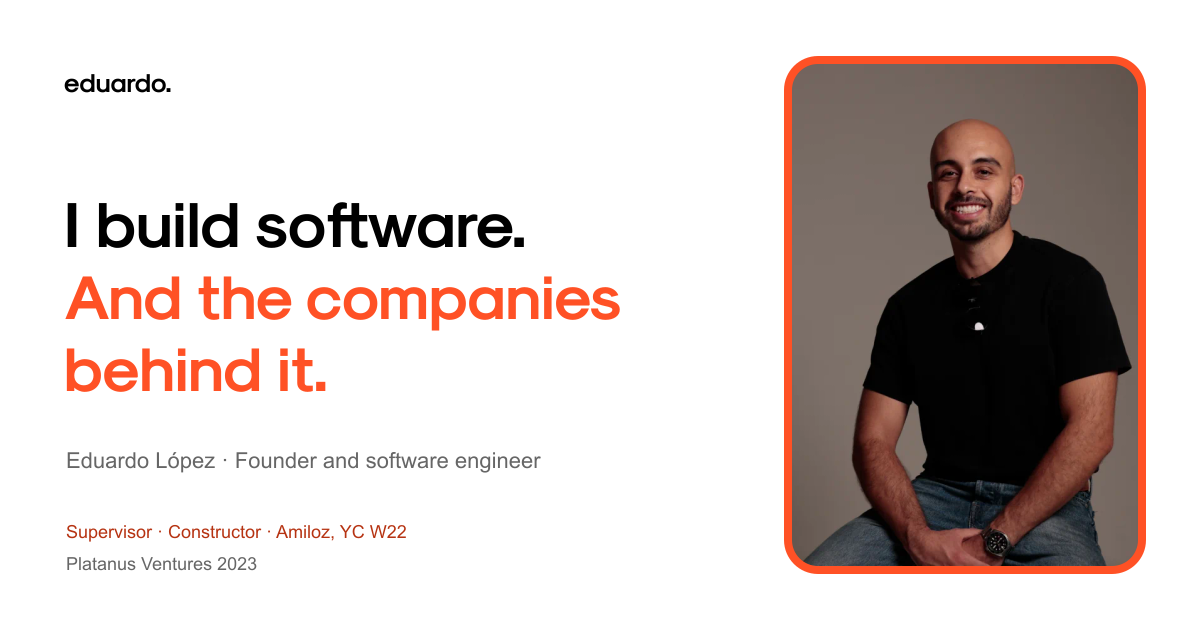
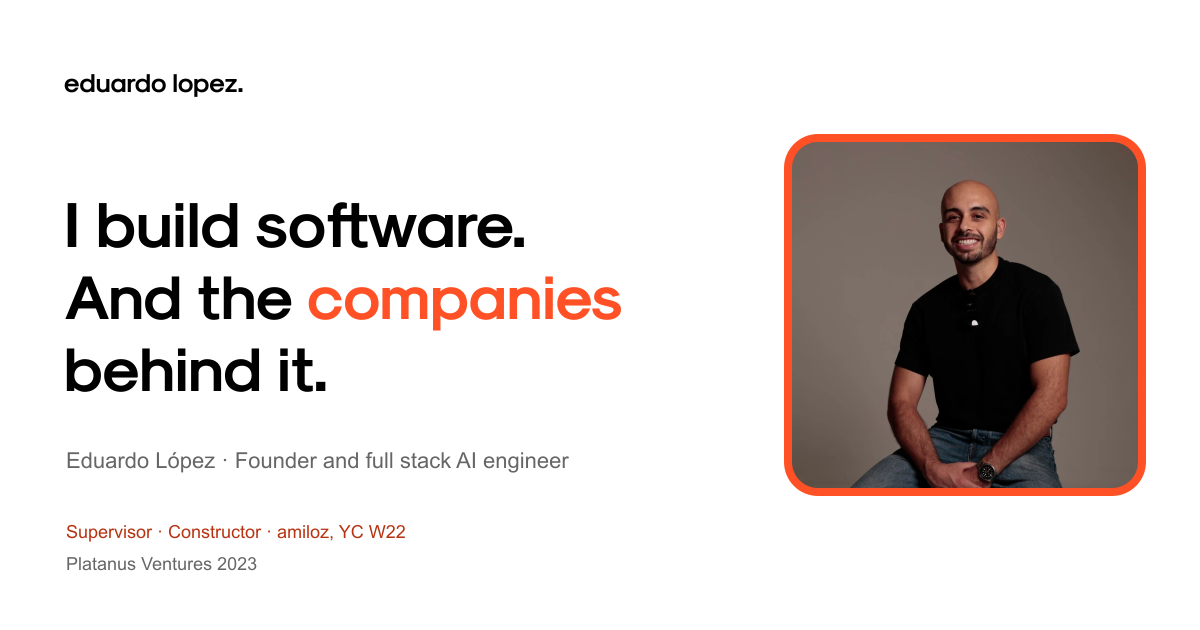
fix(profile): display the original portrait without cropping

diff --git a/scripts/generate-brand.ts b/scripts/generate-brand.ts
@@ -30,7 +30,12 @@ header.writeUInt32LE(22, 18);
 await writeFile("public/favicon.ico", Buffer.concat([header, png]));
 await sharp(Buffer.from(icon)).resize(180, 180).png().toFile("public/apple-touch-icon.png");
 
-const canvas = `<svg xmlns="http://www.w3.org/2000/svg" width="1200" height="630"><rect width="1200" height="630" fill="#ffffff"/>${lettering("eduardo.", 64, 92, 26, "#000000")}${lettering("I build software.", 64, 247, 64, "#000000")}${lettering("And the companies", 64, 319, 62, "#ff5125")}${lettering("behind it.", 64, 391, 62, "#ff5125")}<g font-family="Arial,sans-serif"><text x="66" y="468" font-size="22" fill="#666666">Eduardo López · Founder and software engineer</text><text x="66" y="538" font-size="18" fill="#b63312">Supervisor · Constructor · Amiloz, YC W22</text><text x="66" y="570" font-size="18" fill="#666666">Platanus Ventures 2023</text></g><rect x="784" y="56" width="362" height="518" rx="34" fill="#ff5125"/></svg>`;
-const mask = Buffer.from(`<svg width="346" height="502"><rect width="346" height="502" rx="26" fill="white"/></svg>`);
-const portrait = await sharp("public/images/eduardo-linkedin.webp").resize(346, 502, { fit: "cover" }).composite([{ input: mask, blend: "dest-in" }]).png().toBuffer();
-await sharp(Buffer.from(canvas)).composite([{ input: portrait, left: 792, top: 64 }]).png().toFile("public/og.png");
+const resizedPortrait = await sharp("public/images/eduardo-linkedin.webp").resize(346, 502, { fit: "inside" }).png().toBuffer({ resolveWithObject: true });
+const { width, height } = resizedPortrait.info;
+const left = 792 + Math.round((346 - width) / 2);
+const top = 64 + Math.round((502 - height) / 2);
+const companiesLeft = 64 + font.layout("And the ").positions.reduce((total, position) => total + position.xAdvance, 0) * 62 / font.unitsPerEm;
+const canvas = `<svg xmlns="http://www.w3.org/2000/svg" width="1200" height="630"><rect width="1200" height="630" fill="#ffffff"/>${lettering("eduardo lopez.", 64, 92, 26, "#000000")}${lettering("I build software.", 64, 247, 64, "#000000")}${lettering("And the ", 64, 319, 62, "#000000")}${lettering("companies", companiesLeft, 319, 62, "#ff5125")}${lettering("behind it.", 64, 391, 62, "#000000")}<g font-family="Arial,sans-serif"><text x="66" y="468" font-size="22" fill="#666666">Eduardo López · Founder and full stack AI engineer</text><text x="66" y="538" font-size="18" fill="#b63312">Supervisor · Constructor · amiloz, YC W22</text><text x="66" y="570" font-size="18" fill="#666666">Platanus Ventures 2023</text></g><rect x="${left - 8}" y="${top - 8}" width="${width + 16}" height="${height + 16}" rx="34" fill="#ff5125"/></svg>`;
+const mask = Buffer.from(`<svg width="${width}" height="${height}"><rect width="${width}" height="${height}" rx="26" fill="white"/></svg>`);
+const portrait = await sharp(resizedPortrait.data).composite([{ input: mask, blend: "dest-in" }]).png().toBuffer();
+await sharp(Buffer.from(canvas)).composite([{ input: portrait, left, top }]).png().toFile("public/og.png");

diff --git a/src/components/portrait.tsx b/src/components/portrait.tsx
@@ -1,25 +1,26 @@
 import Image from "next/image";
 import type { Locale } from "@/lib/site";
+import portraitImage from "../../public/images/eduardo-linkedin.webp";
 
 export function Portrait({ locale }: { locale: Locale }) {
   const es = locale === "es";
 
   return <div className="portrait-enter relative mx-auto w-full max-w-[304px]">
     <div className="portrait-shell rounded-[2rem] p-2">
-      <div className="relative aspect-[4/5] overflow-hidden rounded-[1.55rem]">
-        <Image src="/images/eduardo-linkedin.webp" alt="Eduardo López" fill priority sizes="(min-width: 344px) 288px, calc(100vw - 56px)" className="object-cover" />
+      <div className="overflow-hidden rounded-[1.55rem]">
+        <Image src={portraitImage} alt="Eduardo López" priority sizes="(min-width: 344px) 288px, calc(100vw - 56px)" className="block h-auto w-full object-contain" />
       </div>
     </div>
-    <div className="founder-note relative -mt-8 ml-4 mr-4 grid gap-3 rounded-2xl px-4 py-4 sm:ml-[-28px] sm:mr-10">
+    <div className="founder-note relative ml-4 mr-4 mt-4 grid gap-3 rounded-2xl px-4 py-4 sm:ml-[-28px] sm:mr-10">
       <div className="flex items-center gap-3">
         <Image src="/images/y-combinator.svg" alt="Y Combinator" width={36} height={36} className="h-9 w-9 flex-none" />
-        <span><span className="block text-xs font-semibold">Y Combinator W22</span><span className="mt-0.5 block text-[11px] text-muted">{es ? "Cofundador de Amiloz" : "Amiloz cofounder"}</span></span>
+        <span><span className="block text-xs font-semibold">Y Combinator W22</span><span className="mt-0.5 block text-[11px] text-muted">{es ? "Cofundador de amiloz" : "amiloz cofounder"}</span></span>
       </div>
       <div className="flex items-center gap-3 border-t border-ink/10 pt-3">
         <Image src="/images/platanus.svg" alt="Platanus Ventures" width={36} height={36} className="h-9 w-9 flex-none rounded bg-black p-1.5" />
         <span><span className="block text-xs font-semibold">Platanus Ventures</span><span className="mt-0.5 block text-[11px] text-muted">{es ? "Generación de fundadores 2023" : "Founder cohort 2023"}</span></span>
       </div>
     </div>
-    <span className="absolute -right-1 top-[-18px] hidden rotate-6 rounded-full border border-brand/30 bg-paper px-4 py-2 font-action text-xs uppercase tracking-[.04em] text-ink sm:block">{es ? "ideas → productos" : "ideas → products"}</span>
+    <span className="absolute -right-1 -top-12 hidden rotate-6 rounded-full border border-brand/30 bg-paper px-4 py-2 font-action text-xs uppercase tracking-[.04em] text-ink sm:block">{es ? "ideas → productos" : "ideas → products"}</span>
   </div>;
 }
